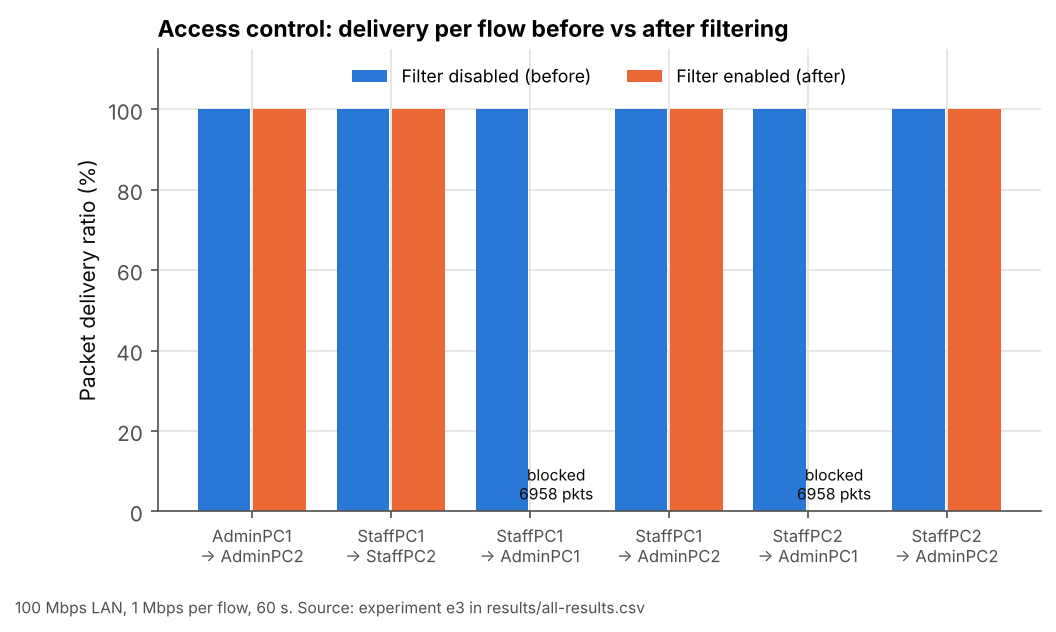
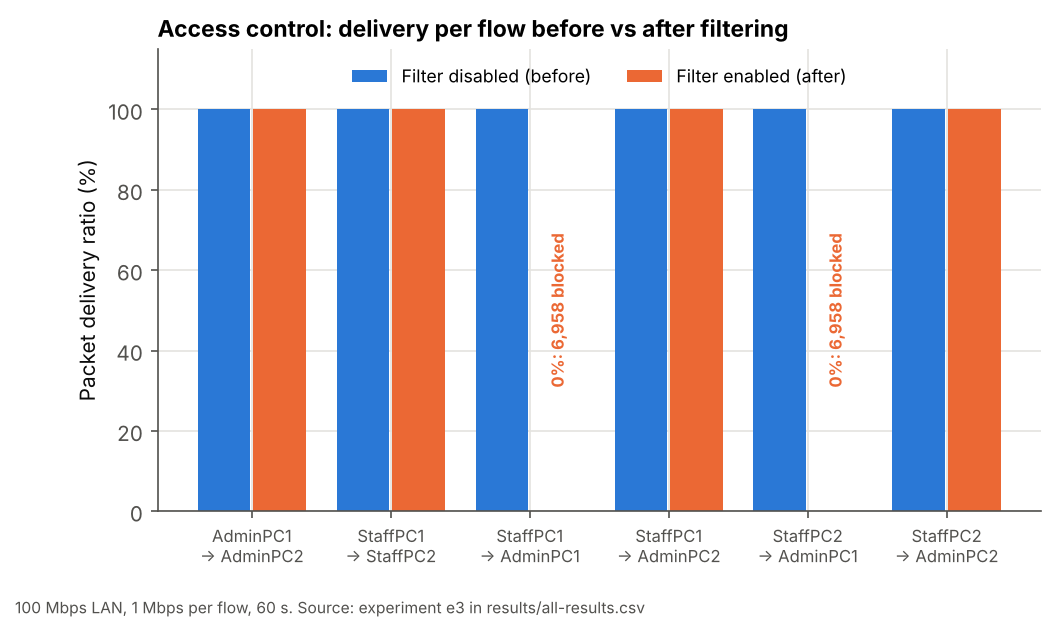
Fix overlapping "blocked" label in access-control figure
The label for blocked flows was drawn centred in the empty "after" bar
slot but was wider than the slot, so it ran into the neighbouring blue
bar. It is now a vertical label inside the empty slot.

Claude-Session: https://claude.ai/code/session_013Y18iSvfqWjaP98MDdkJpU

diff --git a/scripts/analyze-results.py b/scripts/analyze-results.py
@@ -180,8 +180,11 @@ def access_control_figure(df):
                 w, color=COLORS["lan10"], label="Filter enabled (after)")
     for i, fid in enumerate(ids):
         if on.loc[fid, "blocked_packets"] > 0:
-            ax.annotate(f"blocked\n{int(on.loc[fid, 'blocked_packets'])} pkts",
-                        (i + w / 2, 2), ha="center", va="bottom", fontsize=7.5, color=INK)
+            # Vertical label inside the empty "after" slot, so it never overlaps the blue bar.
+            ax.text(i + w / 2 + 0.01, 50,
+                    f"0%: {int(on.loc[fid, 'blocked_packets']):,} blocked",
+                    rotation=90, ha="center", va="center", fontsize=8,
+                    color=COLORS["lan10"], fontweight="bold")
     ax.set_xticks(list(x))
     ax.set_xticklabels(names, fontsize=8)
     ax.set_ylabel("Packet delivery ratio (%)")
